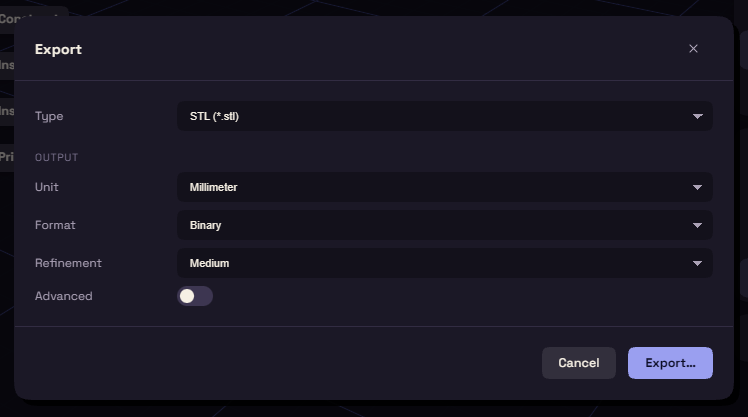
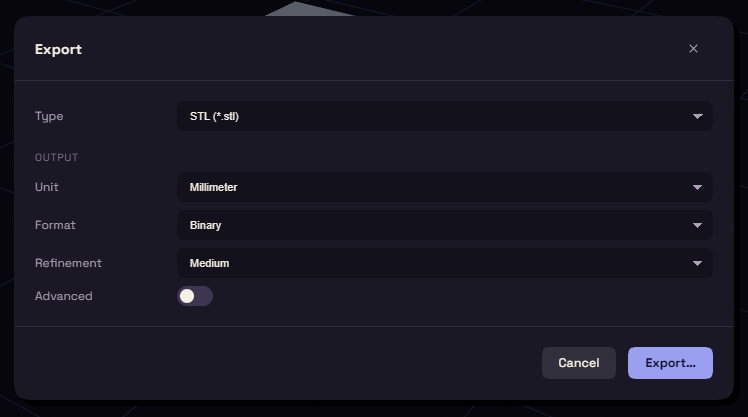
docs: The rectangle and Export pictures are retaken, Insert Document and Import get one

diff --git a/manual/docs/files/link.md b/manual/docs/files/link.md
@@ -2,22 +2,17 @@
 
 Insert Document puts one FundaCAD document into another, for a part that has to fit around something you modelled earlier.
 
-<!-- shot: insert-document | Append or Link choice -->
-
 1. Choose Insert Document under Insert on the rail.
 2. Pick a FundaCAD file.
-3. Choose Append or Link.
+3. Choose Append to copy the shape in once, or Link to also remember the file.
 
-- Append copies the shape in once.
-- Link copies it too and remembers the file, so you can update it when the original changes.
+![Insert Document asking Append or Link](../img/insert-document.png)
 
-Either way the shape arrives as a body, without the steps that made it.
+The shape arrives as a body, without the steps that made it.
 
 ## Keep a link up to date
 
-When a linked file has changed, opening the document says so and offers Update. You can also right click the step in the history:
+When a linked file has changed, opening the document says so and offers Update. You can also right click the step in the History:
 
-- Update from linked file reads the file again.
-- Unlink keeps the shape and forgets the file.
-
-If a linked file has moved, opening the document says it cannot find it.
+- **Update from linked file** reads the file again.
+- **Unlink** keeps the shape and forgets the file.

diff --git a/manual/docs/files/import.md b/manual/docs/files/import.md
@@ -9,9 +9,9 @@ Bring parts from other programs in as bodies, and drawings in as sketches.
 
 You can also drop files onto the window, several come in one after another. File > Open… takes the same formats.
 
-From Home, the file goes into the blank document and gives it its name. If the document behind Home holds work, FundaCAD asks whether to add the file to it or start a new document.
+![An imported STEP assembly with one body per part](../img/import-step.png)
 
-<!-- shot: import-step | imported STEP parts listed as bodies -->
+From Home, the file starts a new document named after it. If the document behind Home holds work, FundaCAD asks whether to add the file to it.
 
 ## Formats
 
